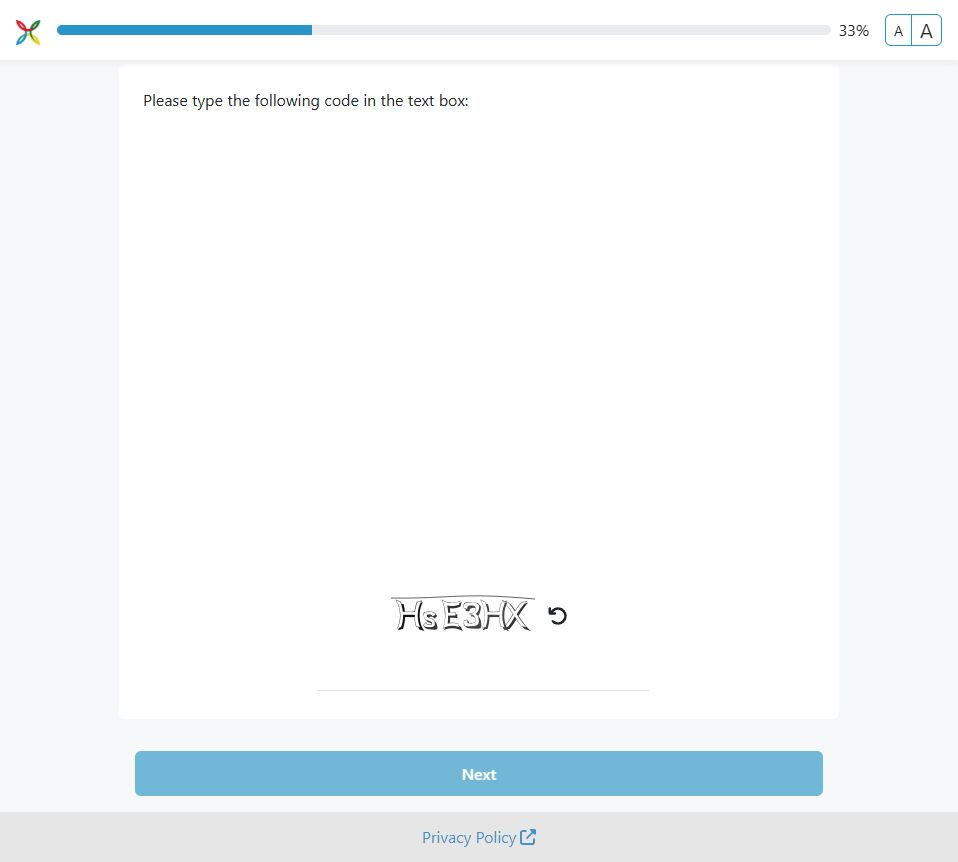
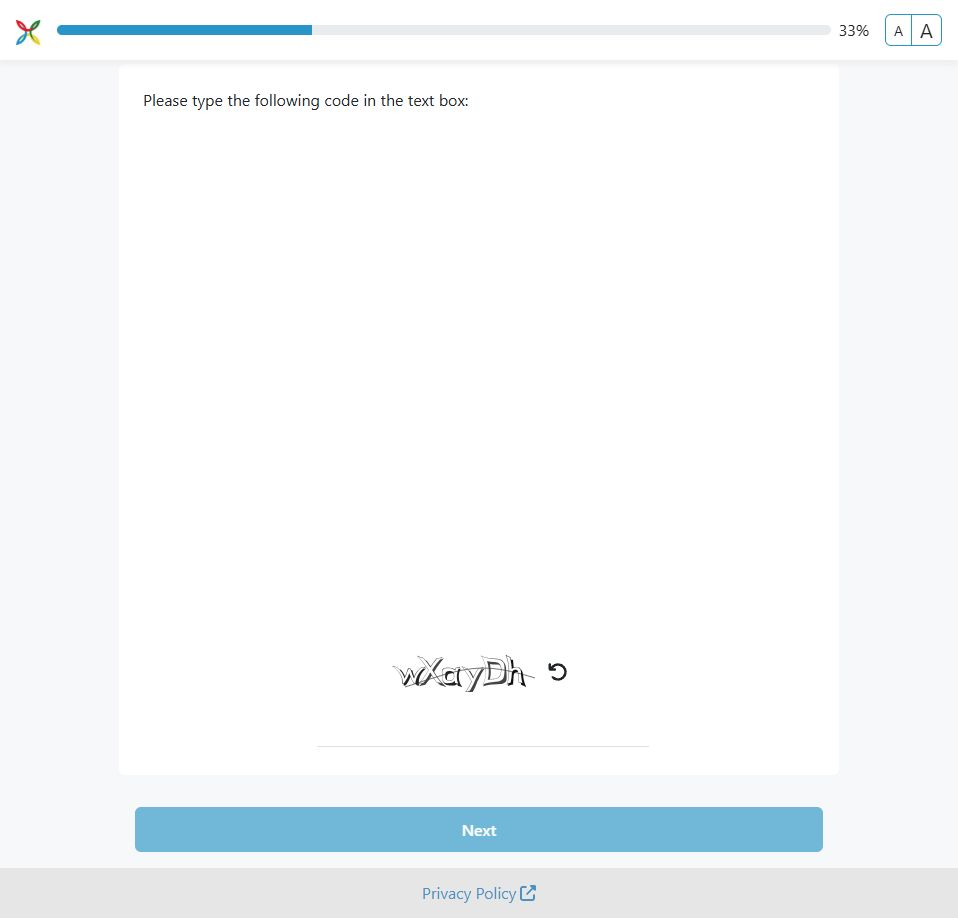
Fixed CAPTCHA solver

diff --git a/error_handling/CAPTCHA_solve.py b/error_handling/CAPTCHA_solve.py
@@ -84,9 +84,13 @@ async def solve_captcha(captcha_key, ai_key, session, captcha_type):
     captcha_path = captcha_path.as_posix()
     
     if captcha_type == 1:
-        result = solver.normal(str(captcha_path)) #returns text
+        response = solver.normal(str(captcha_path)) #returns text
+        result = response.get("code") 
     elif captcha_type == 2:
-        result = solver.grid(str(captcha_path)) #returns numbers of boxes
+        response = solver.grid(str(captcha_path)) #returns numbers of boxes
+        solution = response.get("solution").get("click")
+        result = str(solution)
+
 
     client = OpenAI(api_key = ai_key, base_url = "https://openrouter.ai/api/v1")
         

diff --git a/README.md b/README.md
@@ -11,10 +11,8 @@ This would repeat until the survey is complete, determined by the interface agen
 
 ### Yet to Do:
 
-- Debug CAPTCHA handling (currently code is ok, but 2captcha returns with "captcha unsolvable" message)
-- increase robustness of suitable CAPTCHA challenges (solver bot should be given different message based on CAPTCHA type detected, rather than being given one massive prompt with instructions for every captcha type)
-- completing multiple surveys in a single run (can navigate between a survey selection menu)
-- survey logger (what surveys have been completed, how many API tokens it took, payout if any, etc)
+- increase robustness of suitable CAPTCHA challenges, to include drag and drop captcha, etc (solver bot should be given different message based on CAPTCHA type detected, rather than being given one massive prompt with instructions for every captcha type)
+- completing multiple surveys in a single run (can navigate between a survey selection menu, or between captcha completion and survey start. This would essentially be the orchestrator agent)
 - option to disable synthesis of hypothetical responses
 - nice, clean user interface
 - AI token usage efficiency (send all questions then receive all answers and fill one by one, rather than doing the entire workflow N times)
